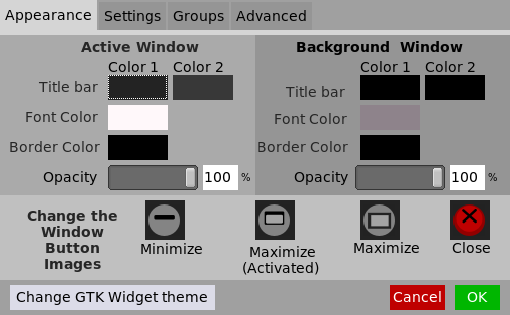
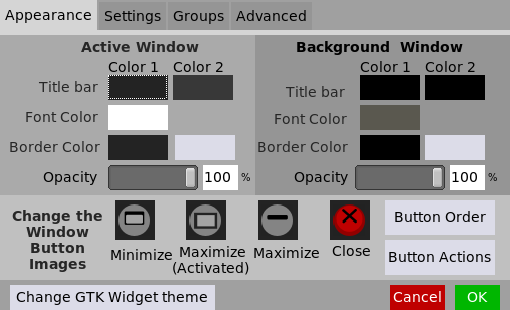
Updated README.md and images

diff --git a/README.md b/README.md
@@ -72,10 +72,10 @@ This allows you to change the background, and amount of virtual desktops.
 It also supports filemanagers creating the desktop background (pcmanfm and gsettings... i.e. thunar/nautilus/etc..)
 
 ## Windows
-![Alt text](/screenshots/windows.png?raw=true "Windows Window") ![Alt text](/screenshots/windows-settings.png?raw=true "Windows Settings") ![Alt text](/screenshots/windows-groups.png?raw=true "Windows Groups") ![Alt text](/screenshots/windows-advanced.png?raw=true "Windows Advanced")
+![Alt text](/screenshots/windows.png?raw=true "Windows Window") ![Alt text](/screenshots/windows-settings.png?raw=true "Windows Settings") ![Alt text](/screenshots/windows-actions.png?raw=true "Window Actions") ![Alt text](/screenshots/windows-groups.png?raw=true "Windows Groups") ![Alt text](/screenshots/windows-advanced.png?raw=true "Windows Advanced")
 
 This allows you to change the window buttons, appearance, and configure window groups
-You can also change the GTK widget theme
+You can also change the GTK widget theme.  The newest version also allow configuring Mouse context actions for the window buttons
 
 ## Keyboard
 ![Alt text](/screenshots/keyboard.png?raw=true "Keyboard Window")
